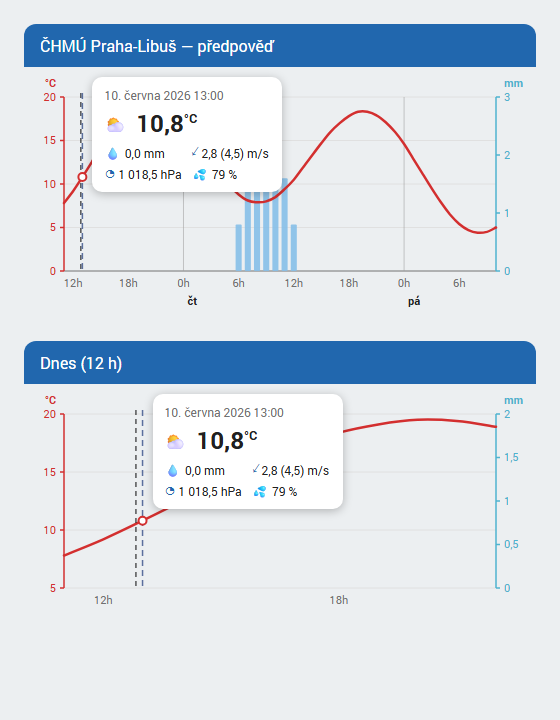
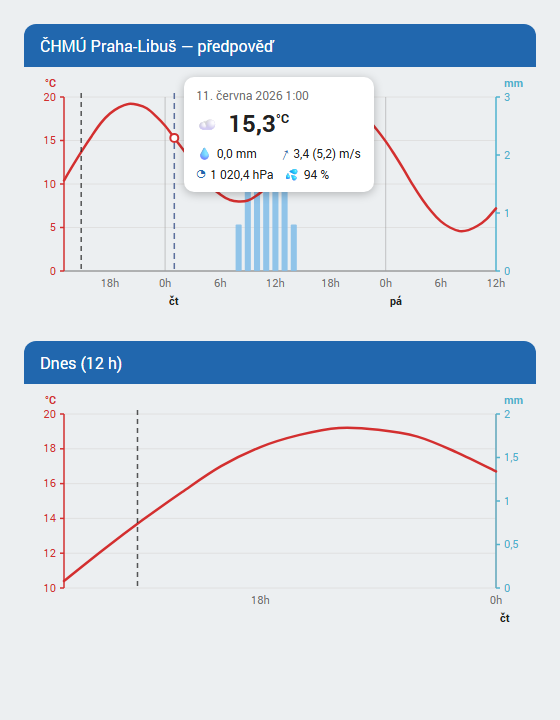
Kurzor jen pri hoveru, format casu dle HA, kompatibilita 2026.6
- kurzor s bublinou se zobrazi jen pri najeti mysi / tazeni prstem,
  mimo graf zmizi a neprekryva graf
- casove udaje (bublina i osa X) respektuji hass.locale.time_format
  (12/24 h, language, system)
- getGridOptions() pro sections view (HA 2026.6+)
- getEntitySuggestion v registraci karty (HA 2026.6+): karta se nabidne
  pri vyberu weather entity v card pickeru
- ochrana pristupu na hass.states. Verze 0.4.0.

diff --git a/src/chmu-meteogram-card.ts b/src/chmu-meteogram-card.ts
@@ -38,7 +38,7 @@ interface HassEntity {
 interface HomeAssistant {
   states: Record<string, HassEntity | undefined>;
   language?: string;
-  locale?: { language?: string };
+  locale?: { language?: string; time_format?: string };
   connection: {
     subscribeMessage<T>(
       callback: (msg: T) => void,
@@ -129,7 +129,7 @@ export class ChmuMeteogramCard extends LitElement {
   @state() private _forecast?: ForecastItem[];
   @state() private _width = 0;
   @state() private _error?: string;
-  /** Index hodiny vybrané kurzorem; undefined = aktuální hodina. */
+  /** Index hodiny vybrané kurzorem; undefined = kurzor skrytý. */
   @state() private _selIdx?: number;
 
   private _hass?: HomeAssistant;
@@ -176,6 +176,16 @@ export class ChmuMeteogramCard extends LitElement {
     return 5;
   }
 
+  /** Rozměry v sections view (HA 2026.6+); buňka ~30×56 px + 8 px mezera. */
+  getGridOptions(): Record<string, number | string> {
+    return {
+      columns: 12,
+      rows: 5,
+      min_columns: 6,
+      min_rows: 4,
+    };
+  }
+
   private get _hours(): number {
     const h = this._config?.hours ?? DEFAULT_HOURS;
     return Math.min(MAX_HOURS, Math.max(MIN_HOURS, Math.round(h)));
@@ -183,6 +193,19 @@ export class ChmuMeteogramCard extends LitElement {
 
   private get _lang(): string {
     return this._hass?.locale?.language ?? this._hass?.language ?? "cs";
+  }
+
+  /** 12h vs 24h podle nastavení HA (Nastavení → Osoba → Formát času). */
+  private get _use12h(): boolean {
+    const tf = this._hass?.locale?.time_format;
+    if (tf === "12") return true;
+    if (tf === "24") return false;
+    // "language" → podle jazyka HA, "system" → podle prohlížeče
+    const locale = tf === "system" ? undefined : this._lang;
+    return (
+      new Intl.DateTimeFormat(locale, { hour: "numeric" }).resolvedOptions()
+        .hour12 ?? false
+    );
   }
 
   // ---- lifecycle / subscription ------------------------------------------
@@ -253,21 +276,6 @@ export class ChmuMeteogramCard extends LitElement {
     }));
   }
 
-  /** Index bodu nejbližšího aktuálnímu času. */
-  private _nowIdx(points: Array<{ time: Date }>): number {
-    const now = Date.now();
-    let best = 0;
-    for (let i = 0; i < points.length; i++) {
-      if (
-        Math.abs(points[i].time.getTime() - now) <
-        Math.abs(points[best].time.getTime() - now)
-      ) {
-        best = i;
-      }
-    }
-    return best;
-  }
-
   private _idxFromEvent(ev: PointerEvent): number | undefined {
     const svgEl = this.renderRoot.querySelector("svg");
     const n = Math.min(this._forecast?.length ?? 0, this._hours);
@@ -294,6 +302,12 @@ export class ChmuMeteogramCard extends LitElement {
   private _onPointerUp(ev: PointerEvent): void {
     this._dragging = false;
     (ev.currentTarget as Element).releasePointerCapture(ev.pointerId);
+    // Dotyk: po zvednutí prstu už nad grafem nic není → kurzor schovat
+    if (ev.pointerType !== "mouse") this._selIdx = undefined;
+  }
+
+  private _onPointerLeave(): void {
+    if (!this._dragging) this._selIdx = undefined;
   }
 
   // ---- render --------------------------------------------------------------
@@ -303,7 +317,7 @@ export class ChmuMeteogramCard extends LitElement {
 
     const title =
       this._config.title ??
-      (this._hass?.states[this._config.entity]?.attributes
+      (this._hass?.states?.[this._config.entity]?.attributes
         .friendly_name as string | undefined) ??
       "Meteogram ČHMÚ";
 
@@ -360,7 +374,7 @@ export class ChmuMeteogramCard extends LitElement {
     const fmt = new Intl.NumberFormat(this._lang, { maximumFractionDigits: 0 });
     const fmtP = new Intl.NumberFormat(this._lang, { maximumFractionDigits: 1 });
     const dayFmt = new Intl.DateTimeFormat(this._lang, { weekday: "short" });
-    const attrs = this._hass?.states[this._config!.entity]?.attributes;
+    const attrs = this._hass?.states?.[this._config!.entity]?.attributes;
     const tempUnit = (attrs?.temperature_unit as string | undefined) ?? "°C";
     const precipUnit = (attrs?.precipitation_unit as string | undefined) ?? "mm";
 
@@ -425,8 +439,14 @@ export class ChmuMeteogramCard extends LitElement {
         `);
       }
       if (hr % 6 === 0 && px >= M_LEFT - 1 && px <= M_LEFT + plotW + 1) {
+        const lbl = this._use12h
+          ? p.time
+              .toLocaleTimeString(this._lang, { hour: "numeric", hour12: true })
+              .toLowerCase()
+              .replace(/\s/g, "")
+          : `${hr}h`;
         parts.push(svg`
-          <text x=${px} y=${H - 24} class="lbl hour-lbl" text-anchor="middle">${hr}h</text>
+          <text x=${px} y=${H - 24} class="lbl hour-lbl" text-anchor="middle">${lbl}</text>
         `);
       }
     }
@@ -446,14 +466,17 @@ export class ChmuMeteogramCard extends LitElement {
       `);
     }
 
-    // kurzor vybrané hodiny
-    const selIdx = Math.min(this._selIdx ?? this._nowIdx(points), n - 1);
-    const sel = points[selIdx];
-    const selX = x(sel.time.getTime());
-    parts.push(svg`
-      <line x1=${selX} x2=${selX} y1=${M_TOP - 4} y2=${M_TOP + plotH} class="cursorline" />
-      ${sel.temp != null ? svg`<circle cx=${selX} cy=${yT(sel.temp)} r="4" class="cursordot" />` : nothing}
-    `);
+    // kurzor vybrané hodiny — jen pokud je myš/prst nad grafem
+    const sel =
+      this._selIdx !== undefined ? points[Math.min(this._selIdx, n - 1)] : undefined;
+    let selX = 0;
+    if (sel) {
+      selX = x(sel.time.getTime());
+      parts.push(svg`
+        <line x1=${selX} x2=${selX} y1=${M_TOP - 4} y2=${M_TOP + plotH} class="cursorline" />
+        ${sel.temp != null ? svg`<circle cx=${selX} cy=${yT(sel.temp)} r="4" class="cursordot" />` : nothing}
+      `);
+    }
 
     return html`
       <div class="chart-wrap">
@@ -467,10 +490,11 @@ export class ChmuMeteogramCard extends LitElement {
           @pointermove=${this._onPointerMove}
           @pointerup=${this._onPointerUp}
           @pointercancel=${this._onPointerUp}
+          @pointerleave=${this._onPointerLeave}
         >
           ${parts}
         </svg>
-        ${this._renderBubble(sel.raw, sel.time, selX, W)}
+        ${sel ? this._renderBubble(sel.raw, sel.time, selX, W) : nothing}
       </div>
     `;
   }
@@ -482,7 +506,7 @@ export class ChmuMeteogramCard extends LitElement {
     W: number
   ): TemplateResult {
     const lang = this._lang;
-    const attrs = this._hass?.states[this._config!.entity]?.attributes;
+    const attrs = this._hass?.states?.[this._config!.entity]?.attributes;
     const tempUnit = (attrs?.temperature_unit as string | undefined) ?? "°C";
     const precipUnit = (attrs?.precipitation_unit as string | undefined) ?? "mm";
     const windUnit = (attrs?.wind_speed_unit as string | undefined) ?? "m/s";
@@ -500,7 +524,11 @@ export class ChmuMeteogramCard extends LitElement {
         year: "numeric",
       }) +
       " " +
-      time.toLocaleTimeString(lang, { hour: "numeric", minute: "2-digit" });
+      time.toLocaleTimeString(lang, {
+        hour: "numeric",
+        minute: "2-digit",
+        hour12: this._use12h,
+      });
 
     const icon = CONDITION_ICONS[f.condition ?? ""] ?? "mdi:weather-partly-cloudy";
 
@@ -814,4 +842,12 @@ window.customCards.push({
     "Hodinový meteogram (teplota + srážky) z integrace ha-chmu-meteogram.",
   preview: true,
   documentationURL: "https://github.com/hruskin/ha-chmu-meteogram-card",
+  // HA 2026.6+: nabídnout kartu při výběru weather entity v card pickeru
+  getEntitySuggestion: (_hass: HomeAssistant, entityId: string) => {
+    if (!entityId.startsWith("weather.")) return null;
+    return {
+      config: { type: "custom:chmu-meteogram-card", entity: entityId },
+      label: "Meteogram",
+    };
+  },
 });

diff --git a/dev/demo.html b/dev/demo.html
@@ -70,7 +70,7 @@ for (let i = 0; i < 73; i++) {
 }
 
 const hass = {
-  locale: { language: "cs" },
+  locale: { language: "cs", time_format: "language" },
   states: {
     "weather.chmu_praha_predpoved": {
       attributes: {
@@ -102,6 +102,19 @@ for (const [id, cfg] of [
   });
   card.hass = hass;
 }
+
+// Pro screenshot: simulované najetí myší na první kartu (bublina je vidět)
+setTimeout(() => {
+  const svg = document.getElementById("card48").shadowRoot.querySelector("svg");
+  if (!svg) return;
+  const r = svg.getBoundingClientRect();
+  svg.dispatchEvent(new PointerEvent("pointermove", {
+    pointerType: "mouse",
+    clientX: r.left + r.width * 0.3,
+    clientY: r.top + 100,
+    bubbles: true,
+  }));
+}, 300);
 </script>
 </body>
 </html>

diff --git a/README.md b/README.md
@@ -17,7 +17,8 @@ která podporuje hodinovou předpověď (`weather/subscribe_forecast`).
 - ⏱️ přerušovaná svislá čára „teď"
 - 👆 interaktivní kurzor — najetím myší / tažením prstem se zobrazí bublina
   s detaily vybrané hodiny (piktogram počasí, teplota, srážky, vítr + nárazy,
-  tlak, vlhkost), jako v aplikaci ČHMÚ
+  tlak, vlhkost), jako v aplikaci ČHMÚ; mimo graf se schová
+- 🕓 časové údaje respektují jazyk i formát času (12/24 h) z nastavení HA
 - 🔧 nastavitelný časový rozsah 6–73 hodin
 - 🎨 modrá hlavička, barvy přizpůsobitelné přes CSS proměnné, GUI editor
 